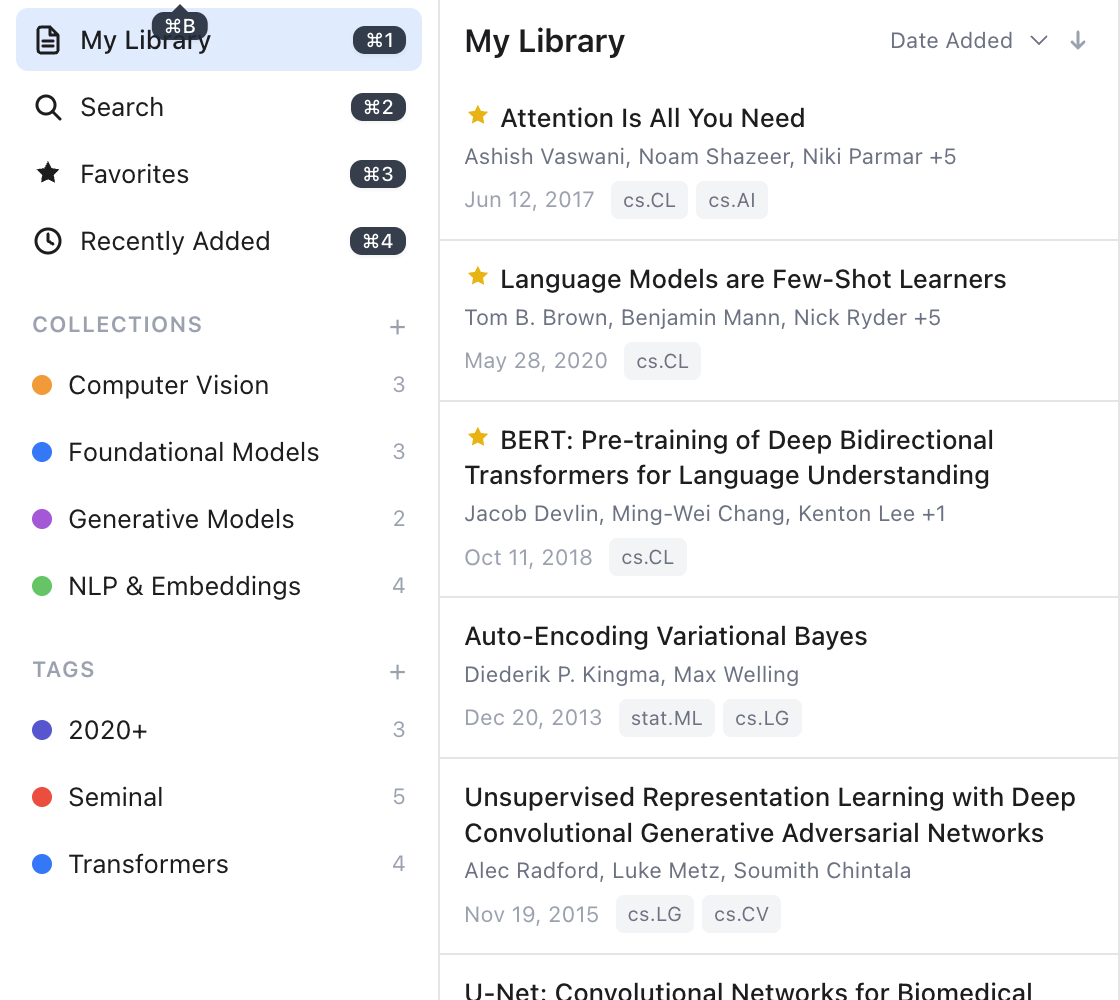
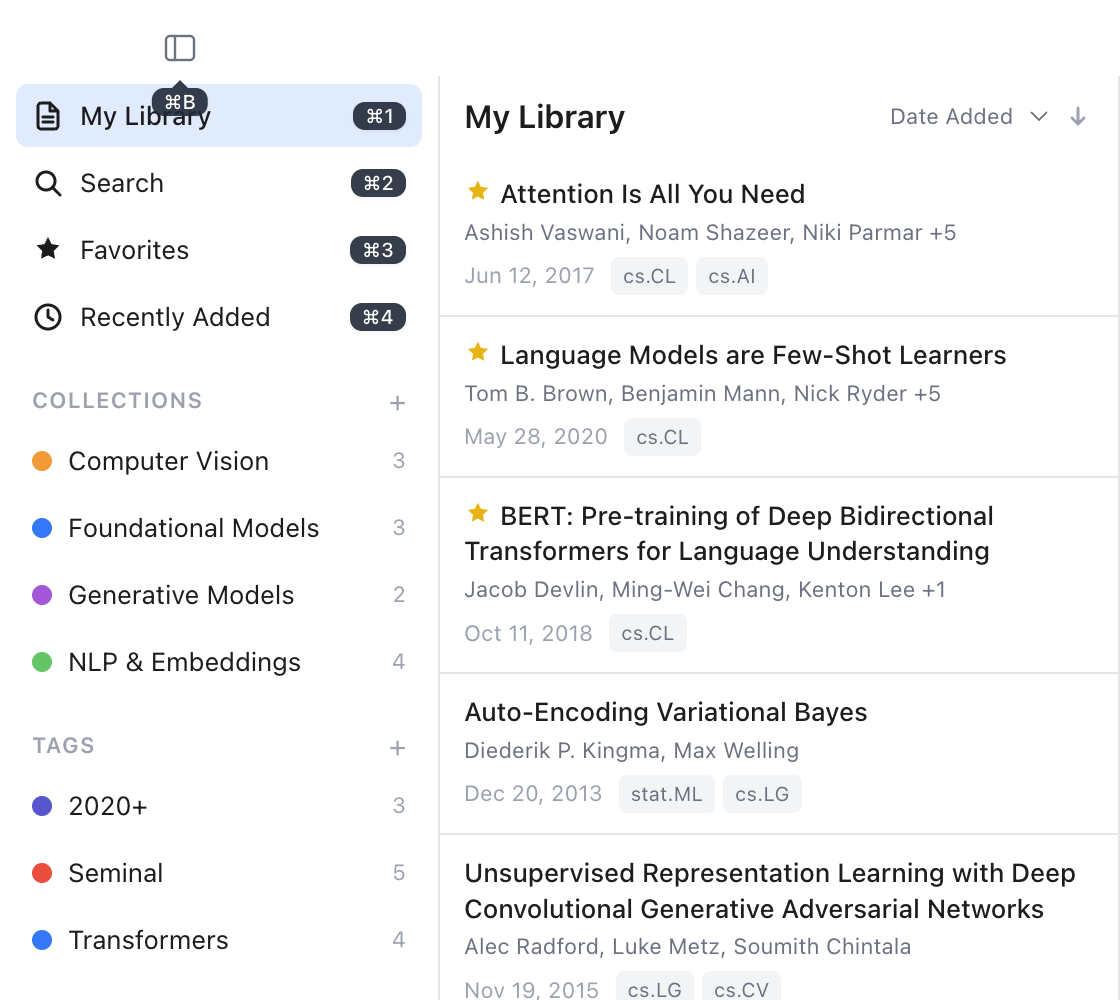
Include titlebar in shortcuts screenshot so ⌘B hint has visible target

diff --git a/scripts/take-screenshots.ts b/scripts/take-screenshots.ts
@@ -319,10 +319,10 @@ async function main() {
   console.log('  Store debug:', storeDebug);
   await window.waitForTimeout(500);
 
-  // Crop to sidebar to show the shortcut badges
+  // Include titlebar so the sidebar-toggle ⌘B hint has a visible target
   await window.screenshot({
     path: path.join(SCREENSHOT_DIR, 'shortcuts.png'),
-    clip: { x: 0, y: TITLEBAR_HEIGHT, width: 560, height: 500 },
+    clip: { x: 0, y: 0, width: 560, height: 500 },
   });
 
   await window.evaluate(() => {
